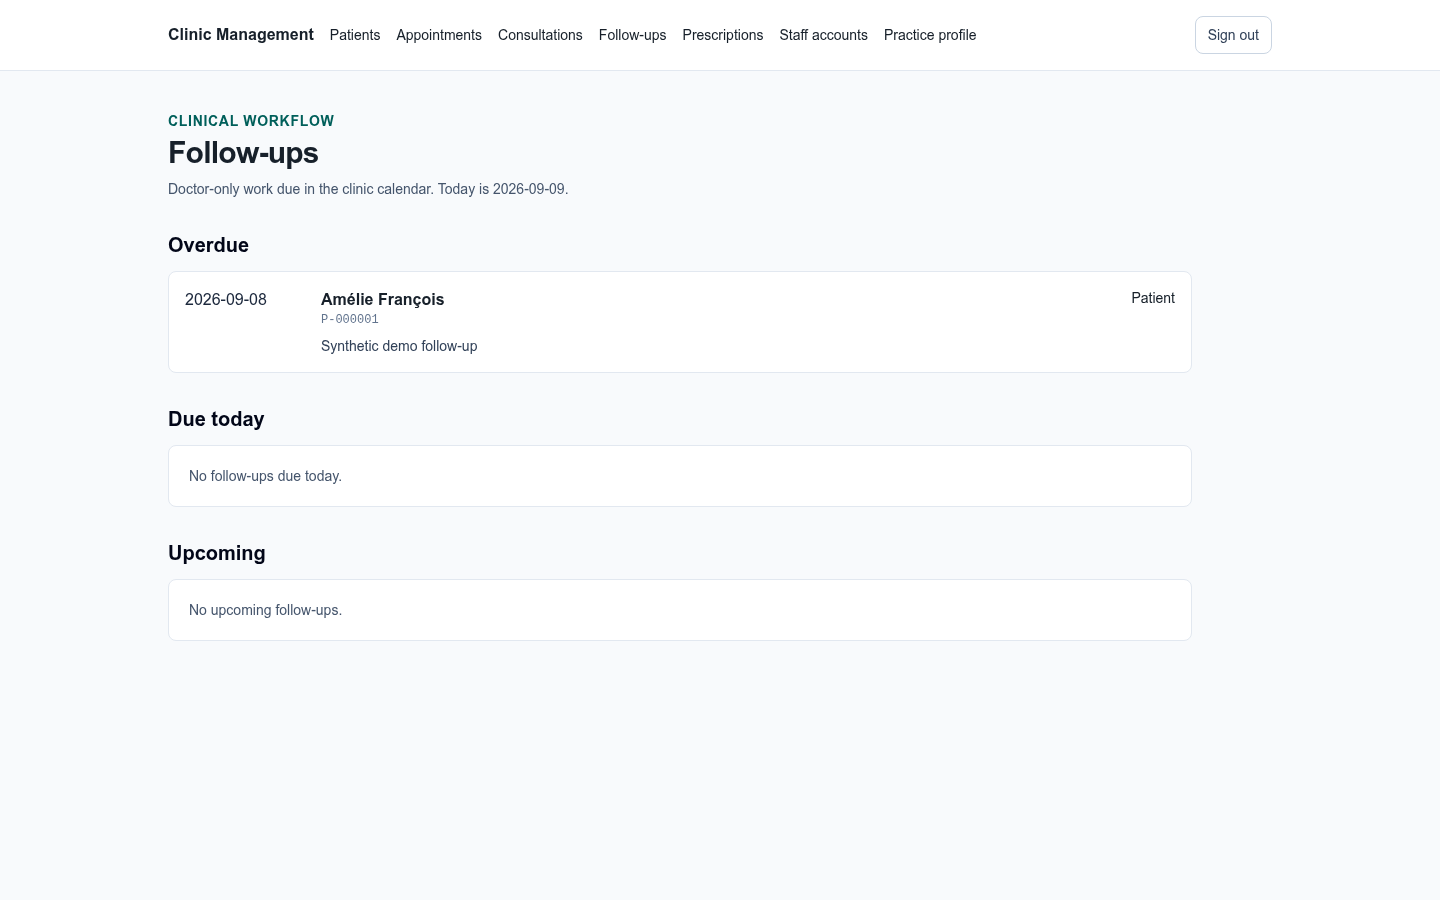
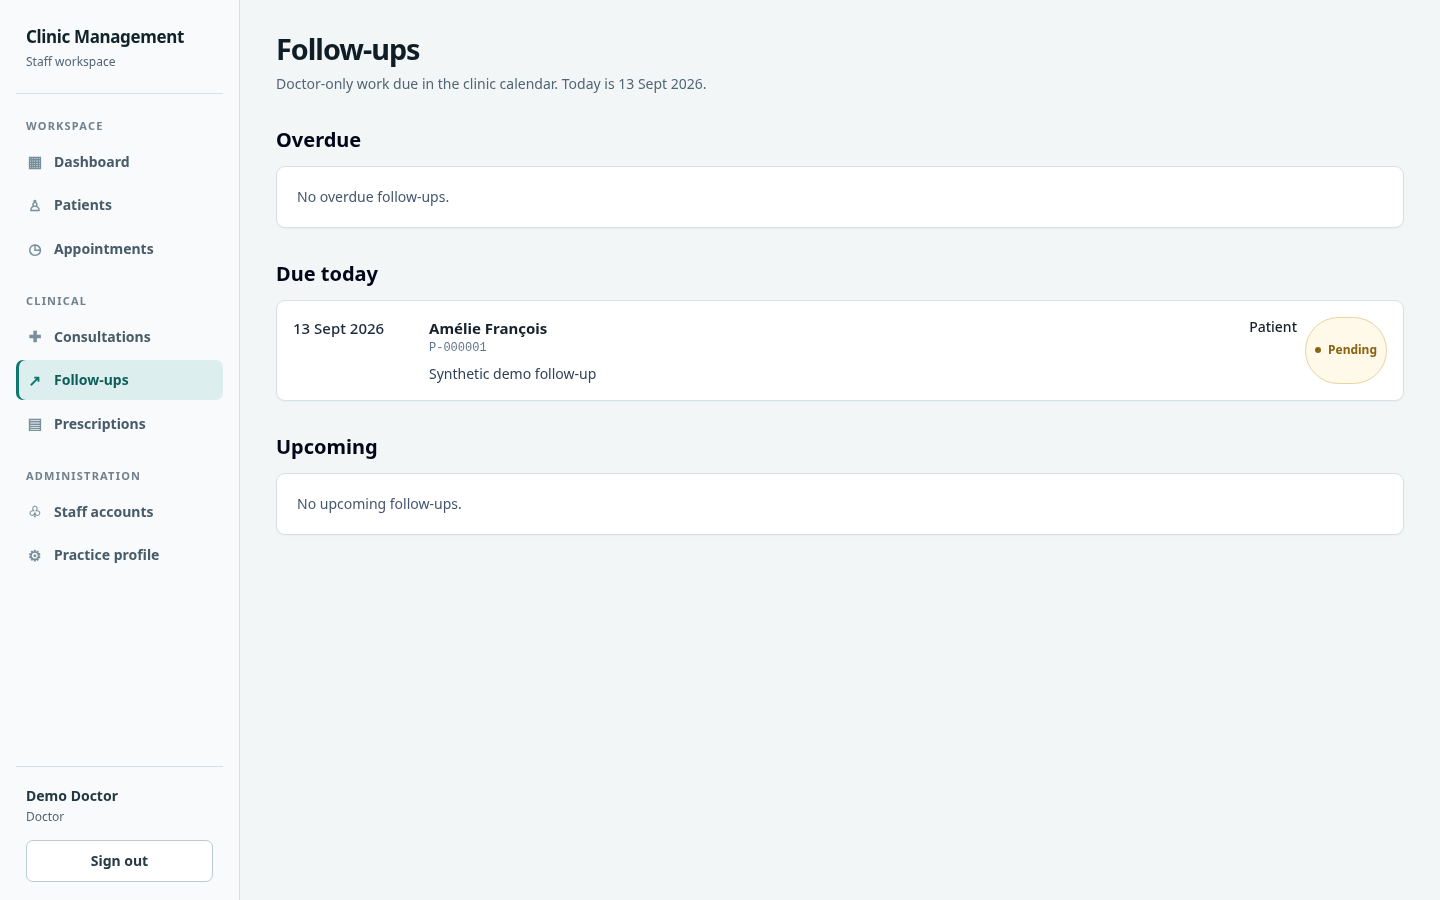
chore: prepare 0.1.0-beta.2 release

diff --git a/README.md b/README.md
@@ -4,7 +4,7 @@ Clinic Management is an open-source practice management application for small me
 
 ## Development status
 
-**Beta 0.1.0-beta.1:** the first feature set is frozen and release hardening is in progress. Authenticated staff can manage administrative patient records and appointments. Doctors additionally manage consultation records, follow-ups, physician-entered prescriptions with immutable issued history, and regenerate A4 PDFs from finalized issue snapshots. This is an open-source beta, not production-ready healthcare software.
+**Beta 0.1.0-beta.2:** includes the initial practice-management workflow, release hardening, a redesigned clinic workstation interface, and Moroccan/bilingual prescription-document improvements. Authenticated staff can manage administrative patient records and appointments. Doctors additionally manage consultation records, follow-ups, physician-entered prescriptions with immutable issued history, and regenerate A4 PDFs from finalized issue snapshots. This is an open-source beta, not production-ready healthcare software.
 
 > **Synthetic data only:** this repository, its fixtures, and any public demonstration must never contain real patient data or identifiable information copied from real people.
 
@@ -184,7 +184,7 @@ drizzle/            generated and reviewed database migrations
 tests/              future integration and end-to-end test support
 ```
 
-Medication intelligence, notification, attachment, billing, signature/stamp images, and PDF-byte archival modules do not exist. Arabic/RTL rendering and jurisdiction-specific legal formatting remain deferred.
+Medication intelligence, notification, attachment, billing, signature/stamp images, and PDF-byte archival modules do not exist. Bilingual Arabic profile fields and Arabic glyph output are supported in the current Moroccan prescription template using bundled fonts; full application RTL localization, complete bidi/shaping support, and jurisdiction-specific legal formatting remain deferred.
 
 ## Documentation
 
@@ -195,13 +195,15 @@ Medication intelligence, notification, attachment, billing, signature/stamp imag
 - [Architectural decisions](docs/adr/README.md)
 - [Contributing](CONTRIBUTING.md)
 - [Security policy](SECURITY.md)
-- [Beta release notes](docs/releases/0.1.0-beta.md)
+- [0.1.0-beta.2 release notes](docs/releases/0.1.0-beta.2.md)
+- [0.1.0-beta.1 release notes](docs/releases/0.1.0-beta.md)
 
 ## Production warning
 
 The Compose configuration and example credentials are for local development only. A responsible production design requires HTTPS, private database networking, independently managed secrets, least-privilege database roles, encrypted and restore-tested backups, monitoring, incident response, and a deployment-specific security and legal review. Retention and disaster-recovery objectives are operator decisions and are not automated in V1.
 
-Known beta limitations include one clinic/doctor instance, English UI, no Arabic/RTL PDF, no notifications,
+Known beta limitations include one clinic/doctor instance, English UI, no full application RTL localization
+or complete bidi/shaping support, no notifications,
 patient portal, billing, medication intelligence, digital signatures, or stored PDF bytes. Exact legal
 prescription formatting remains a deployment/jurisdiction responsibility.
 

diff --git a/docs/releases/0.1.0-beta.2.md b/docs/releases/0.1.0-beta.2.md
@@ -1,0 +1,44 @@
+# 0.1.0-beta.2
+
+## Summary
+
+This second beta improves daily workstation usability, prescription presentation, accessibility, and engineering/release reliability while preserving the existing clinic workflows and security boundaries.
+
+## Highlights
+
+- Professional responsive clinic workstation redesign with role-aware sidebar and mobile navigation.
+- Clearer patient, agenda, consultation, follow-up, prescription, practice-profile, and staff workflows.
+- Accessible confirmation dialogs with keyboard focus restoration, including appointment-overlap cancellation.
+- Human-readable validation, status, date, action, loading, empty, and error presentation.
+- Moroccan/bilingual prescription profile fields, Arabic glyph output in the current versioned template, and authenticated PDF launching.
+- Stabilized PostgreSQL integration organization, timezone fixtures, migration validation, and CI checks.
+
+## Engineering quality
+
+- 76 unit tests.
+- 64 PostgreSQL integration tests.
+- 3 Playwright E2E tests.
+- PostgreSQL migration validation, production build verification, security scanning, and GitHub CI/CodeQL checks.
+
+## Upgrade notes
+
+Beta.1 users must apply the two database migrations added after beta.1 before starting beta.2:
+
+```bash
+pnpm db:migrate
+```
+
+These migrations add the practice-profile and prescription issue-snapshot fields required for the Moroccan/bilingual prescription workflow. Do not recreate an existing database.
+
+## Beta notice
+
+This is beta software. Public demos and repository fixtures use synthetic data only. The application does not automatically provide healthcare regulatory compliance. Real deployments require independent security, legal/compliance, infrastructure, access-control, backup/retention, and operational review.
+
+## Known limitations
+
+- One clinic and one doctor instance; no multi-tenant or multi-doctor operation.
+- English application UI; full application RTL localization and complete bidi/shaping support are not implemented.
+- Arabic profile fields and Arabic glyph output are supported in the current Moroccan prescription template, but jurisdiction-specific legal formatting remains a deployment responsibility.
+- PDFs are regenerated from immutable issue snapshots; exact PDF bytes are not archived.
+- No notifications, patient portal, public booking, billing, pharmacy, medication database, interaction checking, clinical recommendations, digital signatures, or signature/stamp images.
+- All demo and test fixtures are synthetic and must never be replaced with real patient data.

diff --git a/CHANGELOG.md b/CHANGELOG.md
@@ -2,6 +2,29 @@
 
 All notable changes to this project are documented here.
 
+## [0.1.0-beta.2] - 2026-09-13
+
+### Added
+
+- Moroccan prescription profile fields and the versioned bilingual prescription template with bundled Arabic fonts.
+- A professional clinic workstation interface with responsive role-aware navigation across dashboard, patient, appointment, consultation, follow-up, prescription, practice-profile, and staff workflows.
+- Focused PostgreSQL integration coverage and appointment-overlap keyboard-focus coverage.
+
+### Improved
+
+- Patient, daily agenda, consultation, follow-up, prescription, practice-profile, and staff-management workflows with clearer hierarchy, status presentation, responsive layouts, and human-readable validation.
+- Confirmation dialogs, keyboard focus restoration, date presentation, and destructive-action feedback.
+- Authenticated prescription PDF launching and historical prescription presentation.
+- CI and integration-test organization, timezone fixture stability, migration validation, and security checks.
+
+### Fixed
+
+- Schema-compatible practice-profile saves.
+- Appointment-overlap confirmation focus restoration to the originating submit action.
+
+This is an open-source beta. Real deployments require independent security, legal/compliance,
+infrastructure, and backup/retention review. See the [beta.2 release notes](docs/releases/0.1.0-beta.2.md).
+
 ## [0.1.0-beta.1] - 2026-09-09
 
 ### Added
@@ -15,4 +38,4 @@ All notable changes to this project are documented here.
 - Release hardening: guarded test resets, Playwright workflows, synthetic demo seed, and backup/restore scripts.
 
 This is an open-source beta. Real deployments require independent security, legal/compliance,
-infrastructure, and backup/retention review. See the [release notes](docs/releases/0.1.0-beta.md).
+infrastructure, and backup/retention review. See the [beta.1 release notes](docs/releases/0.1.0-beta.md).

diff --git a/SECURITY.md b/SECURITY.md
@@ -34,7 +34,7 @@ This project is an early open-source demonstration and is not declared productio
 
 ## Supported beta
 
-The supported beta line is `0.1.0-beta.1`. Please reproduce reports with synthetic data only. Do not
+The supported beta line is `0.1.0-beta.2`. Please reproduce reports with synthetic data only. Do not
 test against a real clinic, production deployment, patient database, or backup without explicit written
 authorization. This project does not promise a security-response SLA; private reporting is monitored as
 maintainer capacity allows.
